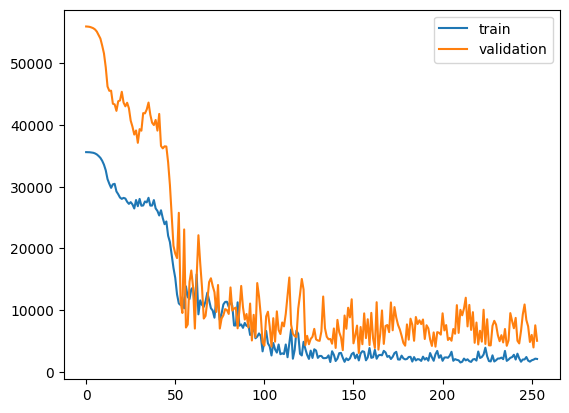
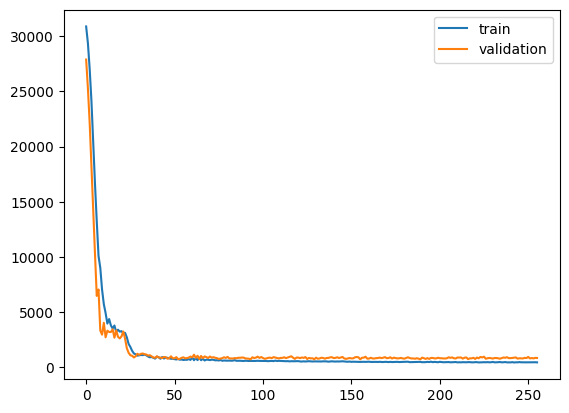
Updated readme, setup and added an exemple

diff --git a/setup.py b/setup.py
@@ -6,7 +6,7 @@ with open('README.md', 'r', encoding='utf-8') as f:
 setup(
     name = 'truesight',
     packages = ['truesight'],
-    version = 'v0.0.2a3',
+    version = 'v0.0.3a1',
     description = 'Truesight is a python package for time series prediction using deep learning and statistical models.',
     author = 'Renan Otvin Klehm',
     author_email = 'renanotivin@hotmail.com',

diff --git a/README.md b/README.md
@@ -33,7 +33,7 @@ import tensorflow as tf
 from truesight.preprocessing import Preprocessor
 from truesight.core import TrueSight
 from truesight.metrics import Evaluator, smape, mape, mse, rmse, mae
-from truesight.utils import get_input_shapes, generate_syntetic_data
+from truesight.utils import AutoTune, generate_syntetic_data
 ```
 
 Load the data
@@ -53,7 +53,7 @@ from truesight.models import AdditiveDecomposition
 from truesight.utils import ModelWrapper
 
 models = [
-    ModelWrapper(LinearRegression, horizon=forecast_horizon, season_length=season_length), 
+    ModelWrapper(LinearRegression, horizon=forecast_horizon, season_length=season_length, alias="LinearRegression"), 
     ModelWrapper(SeasonalNaive, horizon=forecast_horizon, season_length=season_length), 
     ModelWrapper(AutoETS, horizon=forecast_horizon, season_length=season_length),
     ModelWrapper(AdditiveDecomposition, horizon=forecast_horizon, season_length=season_length)
@@ -70,24 +70,22 @@ X_train, Y_train, ids_train, X_val, Y_val, ids_val, models = preprocessor.make_d
     )
 ```
 
-Create the model
+Create the model and automatical automatically find the hyperparameters
 
 ``` python
-input_shapes = get_input_shapes(X_train)
-truesight = TrueSight(models, input_shapes, forecast_horizon = forecast_horizon)
-truesight.auto_tune(X_train, Y_train, X_val, Y_val, n_trials = 50, batch_size = 512, epochs = 5)
-```
-
-Use the `auto_tune` to automatically define the hyperparameters
-
-``` python
-truesight.auto_tune(X_train, Y_train, X_val, Y_val, n_trials = 10, batch_size = 512, epochs = 5)
+optimizer = tf.keras.optimizers.Adam
+hparams, optimizer = AutoTune(optimizer=optimizer).tune(X_train, Y_train, n_trials = 20, epochs = 10, batch_size = 32, stats_models = models)
+ts = TrueSight(models, forecast_horizon)
+ts.set_hparams(hparams)
+ts.compile(optimizer=optimizer, loss='mse')
 ```
 
 Or set then manually
 
 ``` python
-truesight.set_hparams(lstm_units=256, hidden_size=1024, num_heads=8, dropout_rate=0.1)
+optimizer = tf.keras.optimizers.Adam
+ts = TrueSight(models, forecast_horizon, filter_size = 128, context_size = 512, hidden_size = 1024, dropout_rate = 0.1)
+ts.compile(optimizer=optimizer, loss='mse')
 ```
 
 Train the model, as the model is built on the tensorflow framework, any tensorflow callback can be used
@@ -95,17 +93,17 @@ Train the model, as the model is built on the tensorflow framework, any tensorfl
 ``` python
 callbacks = [
     tf.keras.callbacks.EarlyStopping(patience = 100, restore_best_weights = True, monitor = "val_loss"),
-    tf.keras.callbacks.ReduceLROnPlateau(monitor = "val_loss", factor = 0.5, patience = 25, verbose = 1),
+    tf.keras.callbacks.ReduceLROnPlateau(monitor = "val_loss", factor = 0.5, patience = 25, verbose = False),
 ]
-truesight.fit(
-    X_train, Y_train, 
-    X_val, Y_val, 
+ts.fit(
+    x = X_train, y = Y_train, 
+    validation_data = [X_val, Y_val], 
     batch_size = 128, 
     epochs = 1000, 
     verbose = False, 
     callbacks = callbacks,
- )
-truesight.plot_history()
+)
+ts.plot_training_history()
 ```
 ![Training Log](figures/training_history.png)
 
@@ -113,39 +111,18 @@ truesight.plot_history()
 Evaluate the results
 
 ``` python
-Y_hat = truesight.predict(
-    X_val, 
-    batch_size = 500, 
-    n_repeats = 100, 
-    n_quantiles = 15, 
-    return_quantiles = True, 
-    verbose = False,
- )
-evaluator = Evaluator(X_val, Y_val, Y_hat, ids_val)
-evaluator.evaluate_prediction([smape, mape, mse, rmse, mae], return_mean=False)
+yhat = ts.predict(X_val, n_repeats = 100, n_quantiles = 15, verbose = False)
+evaluator = Evaluator(X_val, Y_val, yhat, ids_val)
+evaluator.evaluate_prediction(evaluators = [smape, mape, mse, rmse, mae], return_mean = True)
 ```
-| id |         mse |      rmse |      mae |
-|---:|------------:|----------:|---------:|
-| 10 |  1164.51    |  34.1249  | 25.9397  |
-| 13 |     2.91094 |   1.70615 |  1.69313 |
-| 18 |     2.62309 |   1.6196  |  1.5549  |
-| 38 |     2.77819 |   1.66679 |  1.62896 |
-| 45 |   892.701   |  29.8781  | 10.0897  |
-| 46 |     2.96284 |   1.72129 |  1.71549 |
-| 50 |  3585.54    |  59.8794  | 49.0362  |
-| 51 | 12199.1     | 110.449   | 93.9491  |
-| 53 |     2.6345  |   1.62311 |  1.56625 |
-| 54 |     2.77184 |   1.66488 |  1.63493 |
-| 61 |   303.464   |  17.4202  | 14.6694  |
-| 67 |     2.70393 |   1.64436 |  1.60988 |
-| 69 |  2578.09    |  50.7749  | 38.986   |
-| 70 |     3.09074 |   1.75805 |  1.75805 |
-| 73 |     2.80945 |   1.67614 |  1.65109 |
-| 75 |     2.88333 |   1.69804 |  1.68085 |
-| 78 |     3.09091 |   1.7581  |  1.7581  |
-| 81 |     2.64539 |   1.62647 |  1.56712 |
-| 83 |   491.263   |  22.1644  | 18.4432  |
-| 86 |     2.84002 |   1.68523 |  1.64177 |
+| metric |   value   |
+|-------:|----------:|
+|smape   |   0.234369|
+|mape    |   0.293816|
+|mse     | 816.238082|
+|rmse    |  21.218396|
+|mae     |  15.885432|
+
 
 ``` python
 evaluator.plot_exemple()
